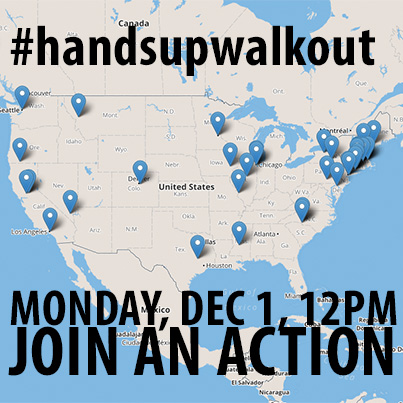
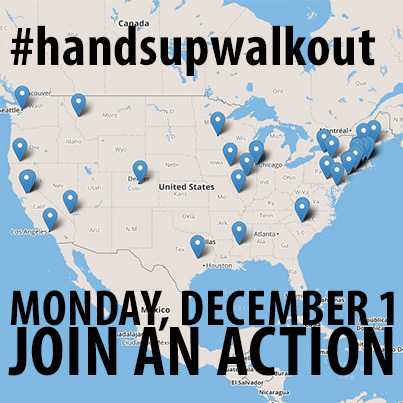
update facebook share img

Changed region(s): [[0.5955, 0.7146, 0.9826, 0.8337]]

diff --git a/index.html b/index.html
@@ -5,7 +5,7 @@
   <meta property="og:title" content="HandsUpWalkout Actions Across the US">
   <meta property="og:type" content="website">
   <meta property="og:url" content="http://handsupwalkout.com/">
-  <meta property="og:image" content="http://handsupwalkout.com/handsupwalkout-fb.jpg">
+  <meta property="og:image" content="http://handsupwalkout.com/handsupwalkout-fb-share.jpg">
   <meta property="og:site_name" content="HandsUpWalkout.com">
   <meta property="og:description" content="#HandsUpWalkout actions planned across the US. Monday, Dec 1 at noon CST walk out of school/work/etc.">
 
